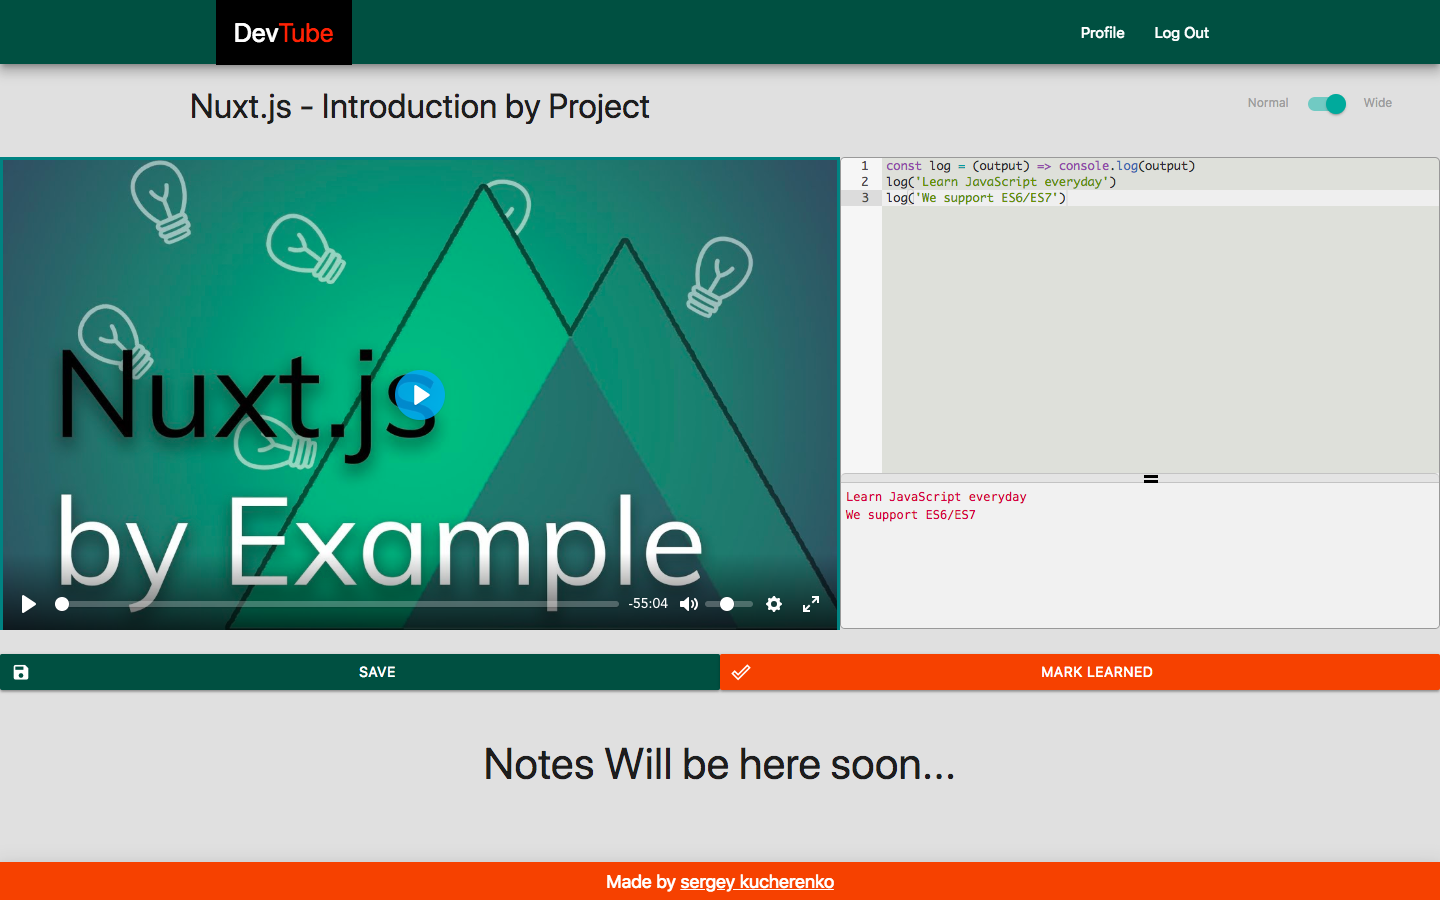
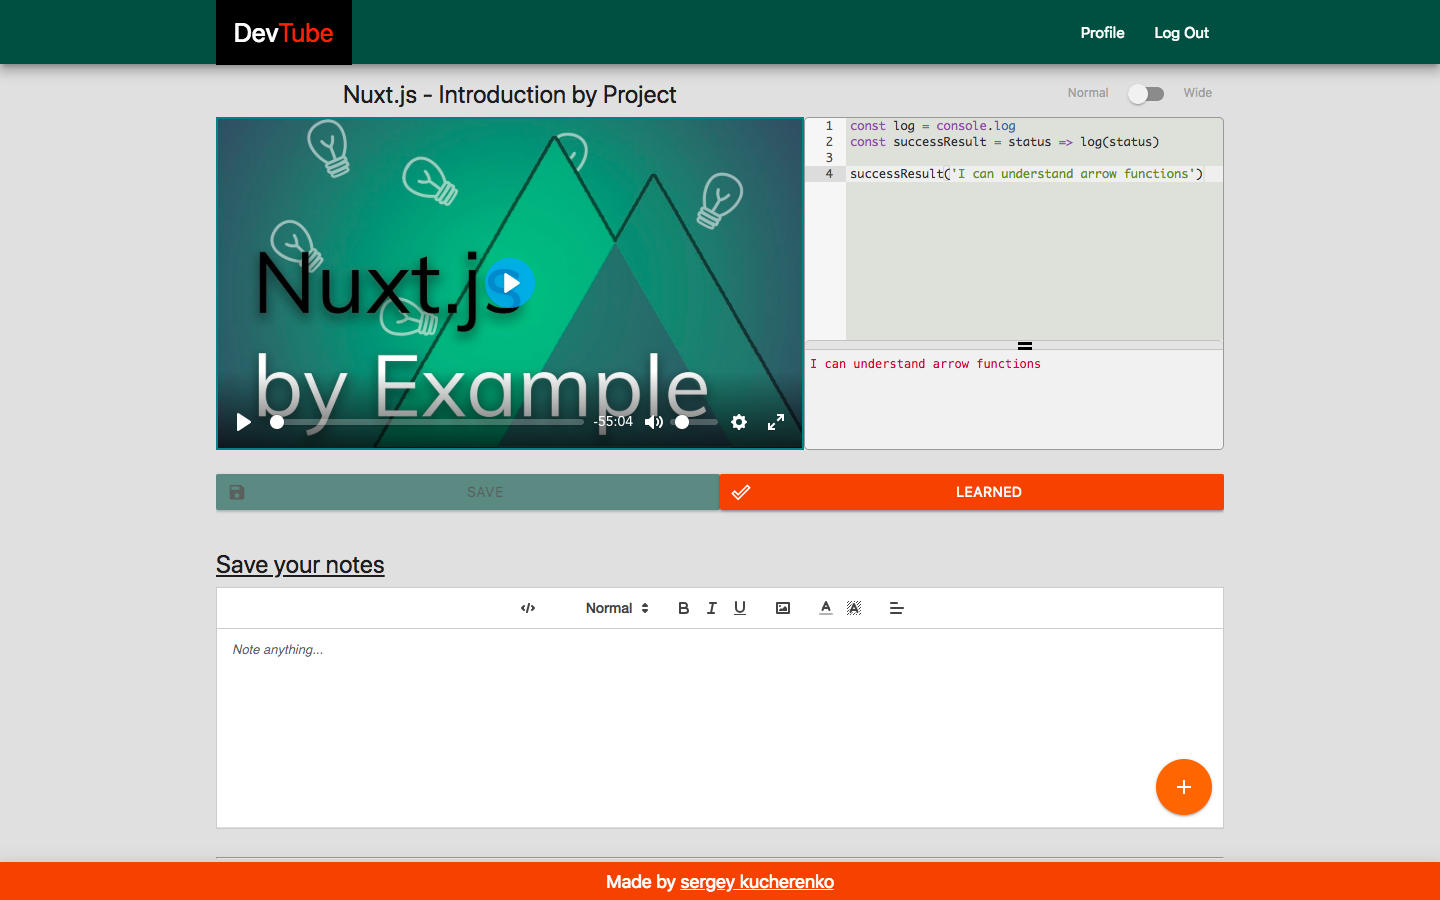
Refresh previews

diff --git a/pages/profile/videos/_id.vue b/pages/profile/videos/_id.vue
@@ -39,7 +39,7 @@
             </div>
         </div>
         <div :class="overlayChanger('fade-out')" id="notes">
-            <h5 class="text-center underline">Save your notes here</h5>
+            <h5 class="text-center underline">Save your notes</h5>
             <quill-editor class="center" @addNote="addNote($event)" />
             <hr>
             <notes-list />

diff --git a/layouts/default.vue b/layouts/default.vue
@@ -35,7 +35,7 @@ export default {
   transition: all 0.8s;
 }
 .full-height {
-  min-height: calc(100vh - 104px);
+  min-height: calc(100vh - 38px);
   padding-bottom: 50px;
   overflow-y: scroll;
 }

diff --git a/README.md b/README.md
@@ -8,13 +8,14 @@
 
 #
 
-> It's a responsive SPA, where you can authorize with social account^, find video from youtube^^, explore new videos on development topics and watch it and write code directly on the site with online editor^^^
+> It's a SPA, where you can authorize with social account^, find video from youtube^^, explore new videos on development topics and watch it and write code directly on the site with online editor^^^
 >
 > ^ maybe email/password in the future; ^^ or provide link; ^^^ only JavaScript(Babel+) supported now
 
 #
 
 ![alt text](https://raw.githubusercontent.com/cherenkor/vue-nuxt-dev-tube/master/preview-single.png)
+![alt text](https://raw.githubusercontent.com/cherenkor/vue-nuxt-dev-tube/master/preview-wide-mode.png)
 
 ## Build Setup
 
